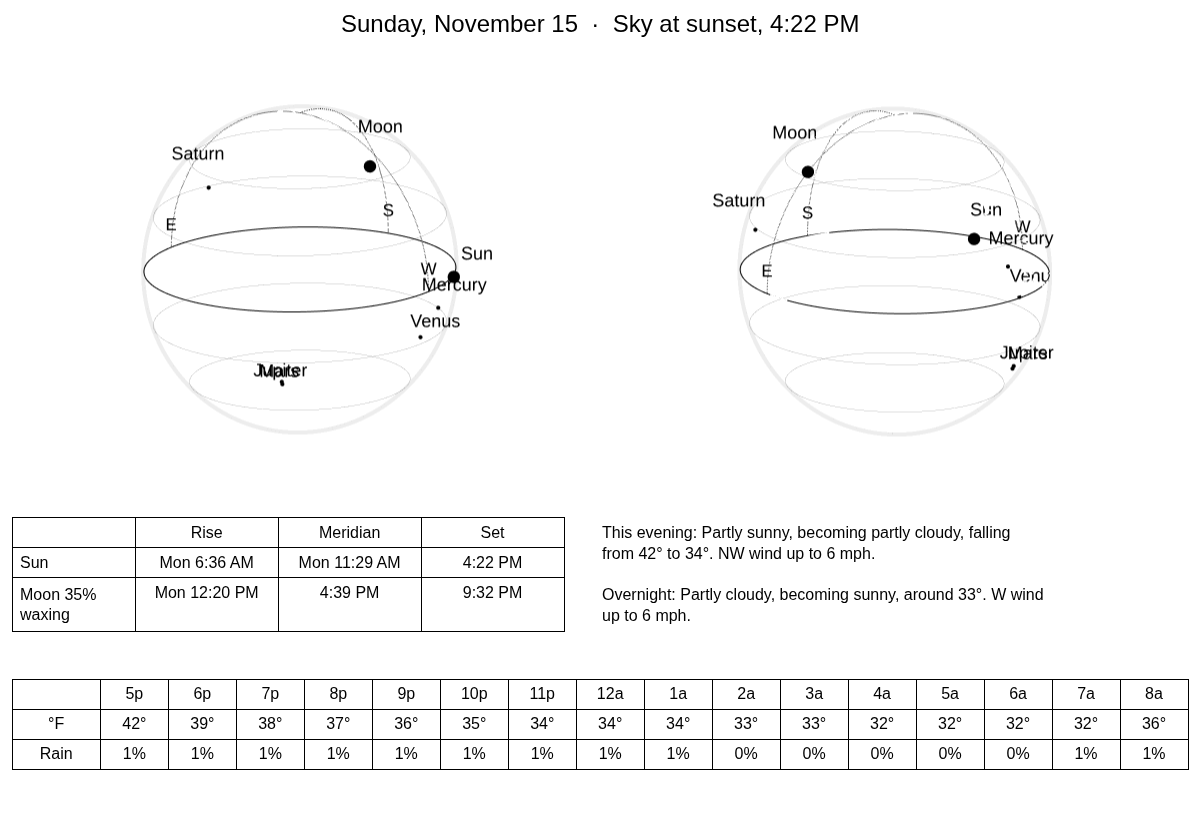
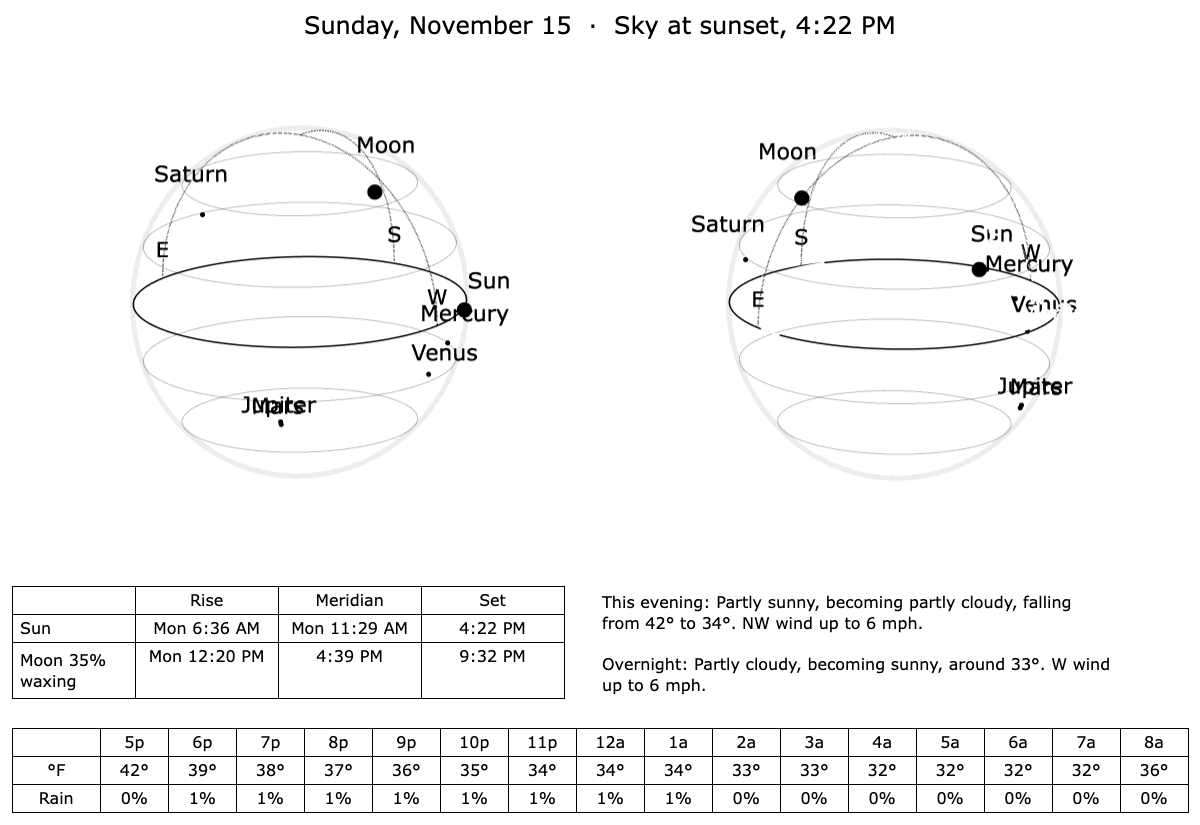
Restore sphere size and move tables to the bottom
- Spheres and labels back to roughly the original size
- Hourly table along the bottom edge; sun/moon table and forecast above it
- Regenerated sky_map_bw.png with the new layout

diff --git a/sky_map_bw.py b/sky_map_bw.py
@@ -201,10 +201,10 @@ bodies = {
 LEFT_AXIS_ROTATION, RIGHT_AXIS_ROTATION = -12, 12
 LEFT_VIEW_ROTATION = 90 + LEFT_AXIS_ROTATION
 RIGHT_VIEW_ROTATION = RIGHT_AXIS_ROTATION
-SCREEN_SCALE = 1.2
+SCREEN_SCALE = 1.5
 LABEL_RADIUS = 1.12
 CAMERA_EYE = dict(x=1.0416667, y=1.0416667, z=0.4166667)
-SPHERE_ZOOM = 1.45    # bigger = larger spheres (orthographic view ignores camera distance)
+SPHERE_ZOOM = 1.36    # sphere size; bigger = larger (orthographic view ignores camera distance)
 
 def spherical_to_cartesian(alt, az, radius=1):
     alt_rad, az_rad = np.radians(alt), np.radians(az)
@@ -279,8 +279,8 @@ add_scene(fig, "scene", LEFT_VIEW_ROTATION, body_positions(map_time, LEFT_VIEW_R
 add_scene(fig, "scene2", RIGHT_VIEW_ROTATION, body_positions(map_time, RIGHT_VIEW_ROTATION))
 
 FONT = dict(color="black", size=16)
-HEADER = dict(fill_color="white", line_color="black", font=dict(color="black", size=16), height=30)
-CELLS = dict(fill_color="white", line_color="black", font=FONT, height=30)
+HEADER = dict(fill_color="white", line_color="black", font=dict(color="black", size=16), height=28)
+CELLS = dict(fill_color="white", line_color="black", font=FONT, height=28)
 
 def cell_time(body, col):
     t = almanac_rows[body][col]
@@ -291,7 +291,7 @@ def cell_time(body, col):
 # Sun / moon table
 cols = ["Rise", "Meridian", "Set"]
 fig.add_trace(go.Table(
-    domain=dict(x=[0.01, 0.47], y=[0.20, 0.37]),
+    domain=dict(x=[0.01, 0.47], y=[0.0, 0.285]),   # tables hang down from the top of y
     columnwidth=[1.25, 1.45, 1.45, 1.45],
     header=dict(values=["", *cols], align="center", **HEADER),
     cells=dict(
@@ -307,7 +307,7 @@ fig.add_trace(go.Table(
 # Hourly table: one column per hour
 if hourly:
     fig.add_trace(go.Table(
-        domain=dict(x=[0.01, 0.99], y=[0.0, 0.17]),
+        domain=dict(x=[0.01, 0.99], y=[0.0, 0.11]),
         columnwidth=[1.3] + [1] * len(hourly),
         header=dict(values=[""] + [h["hour"] for h in hourly], align="center", **HEADER),
         cells=dict(
@@ -322,7 +322,7 @@ title = f"{map_time.astimezone(TZ):%A, %B} {map_time.astimezone(TZ).day}  ·  Sk
 annotations = [
     dict(x=0.5, y=1.0, xref="paper", yref="paper", text=title, showarrow=False,
          font=dict(size=24, color="black"), xanchor="center", yanchor="top"),
-    dict(x=0.50, y=0.365, xref="paper", yref="paper",
+    dict(x=0.50, y=0.28, xref="paper", yref="paper",
          text="<br><br>".join("<br>".join(textwrap.wrap(line, 60)) for line in forecast_lines),
          showarrow=False, align="left",
          font=dict(size=16, color="black"), xanchor="left", yanchor="top"),
@@ -341,8 +341,8 @@ fig.update_layout(
     margin=dict(l=0, r=0, t=8, b=8),
     paper_bgcolor="white", plot_bgcolor="white",
     annotations=annotations,
-    scene=dict(domain=dict(x=[0.0, 0.5], y=[0.39, 0.97]), **scene_common),
-    scene2=dict(domain=dict(x=[0.5, 1.0], y=[0.39, 0.97]), **scene_common),
+    scene=dict(domain=dict(x=[0.0, 0.5], y=[0.31, 0.97]), **scene_common),
+    scene2=dict(domain=dict(x=[0.5, 1.0], y=[0.31, 0.97]), **scene_common),
 )
 
 out_path = OUTPUT_DIR / "sky_map_bw.png"
